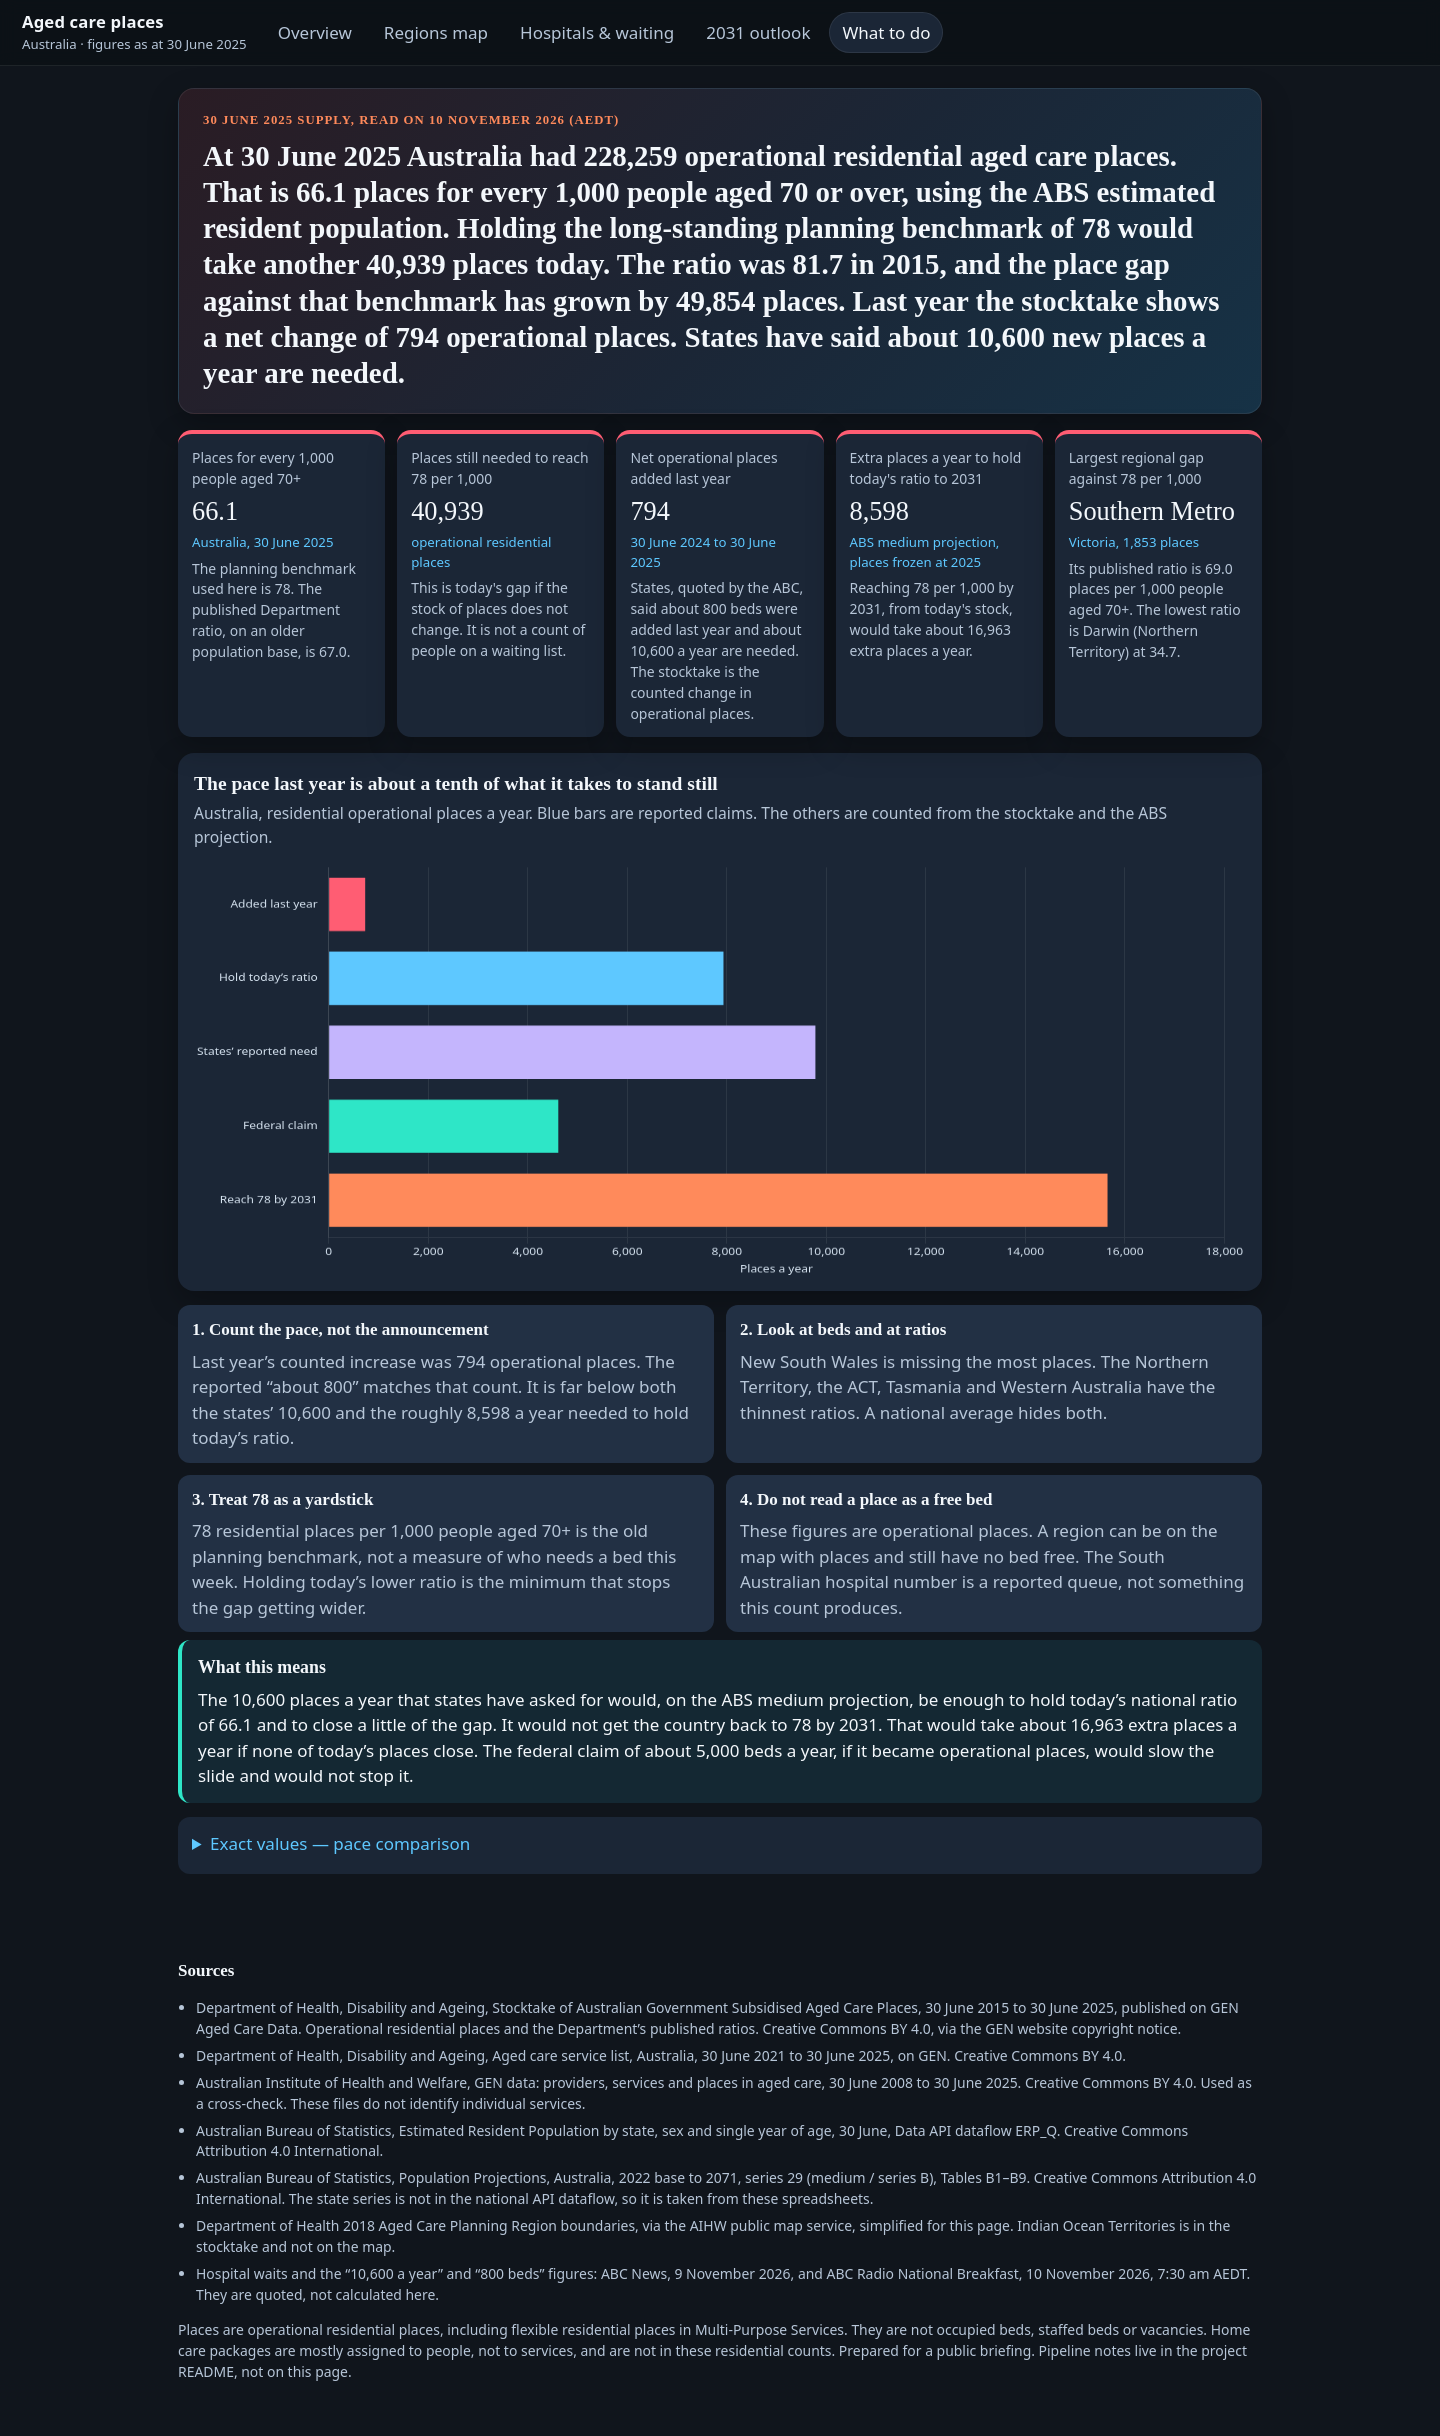
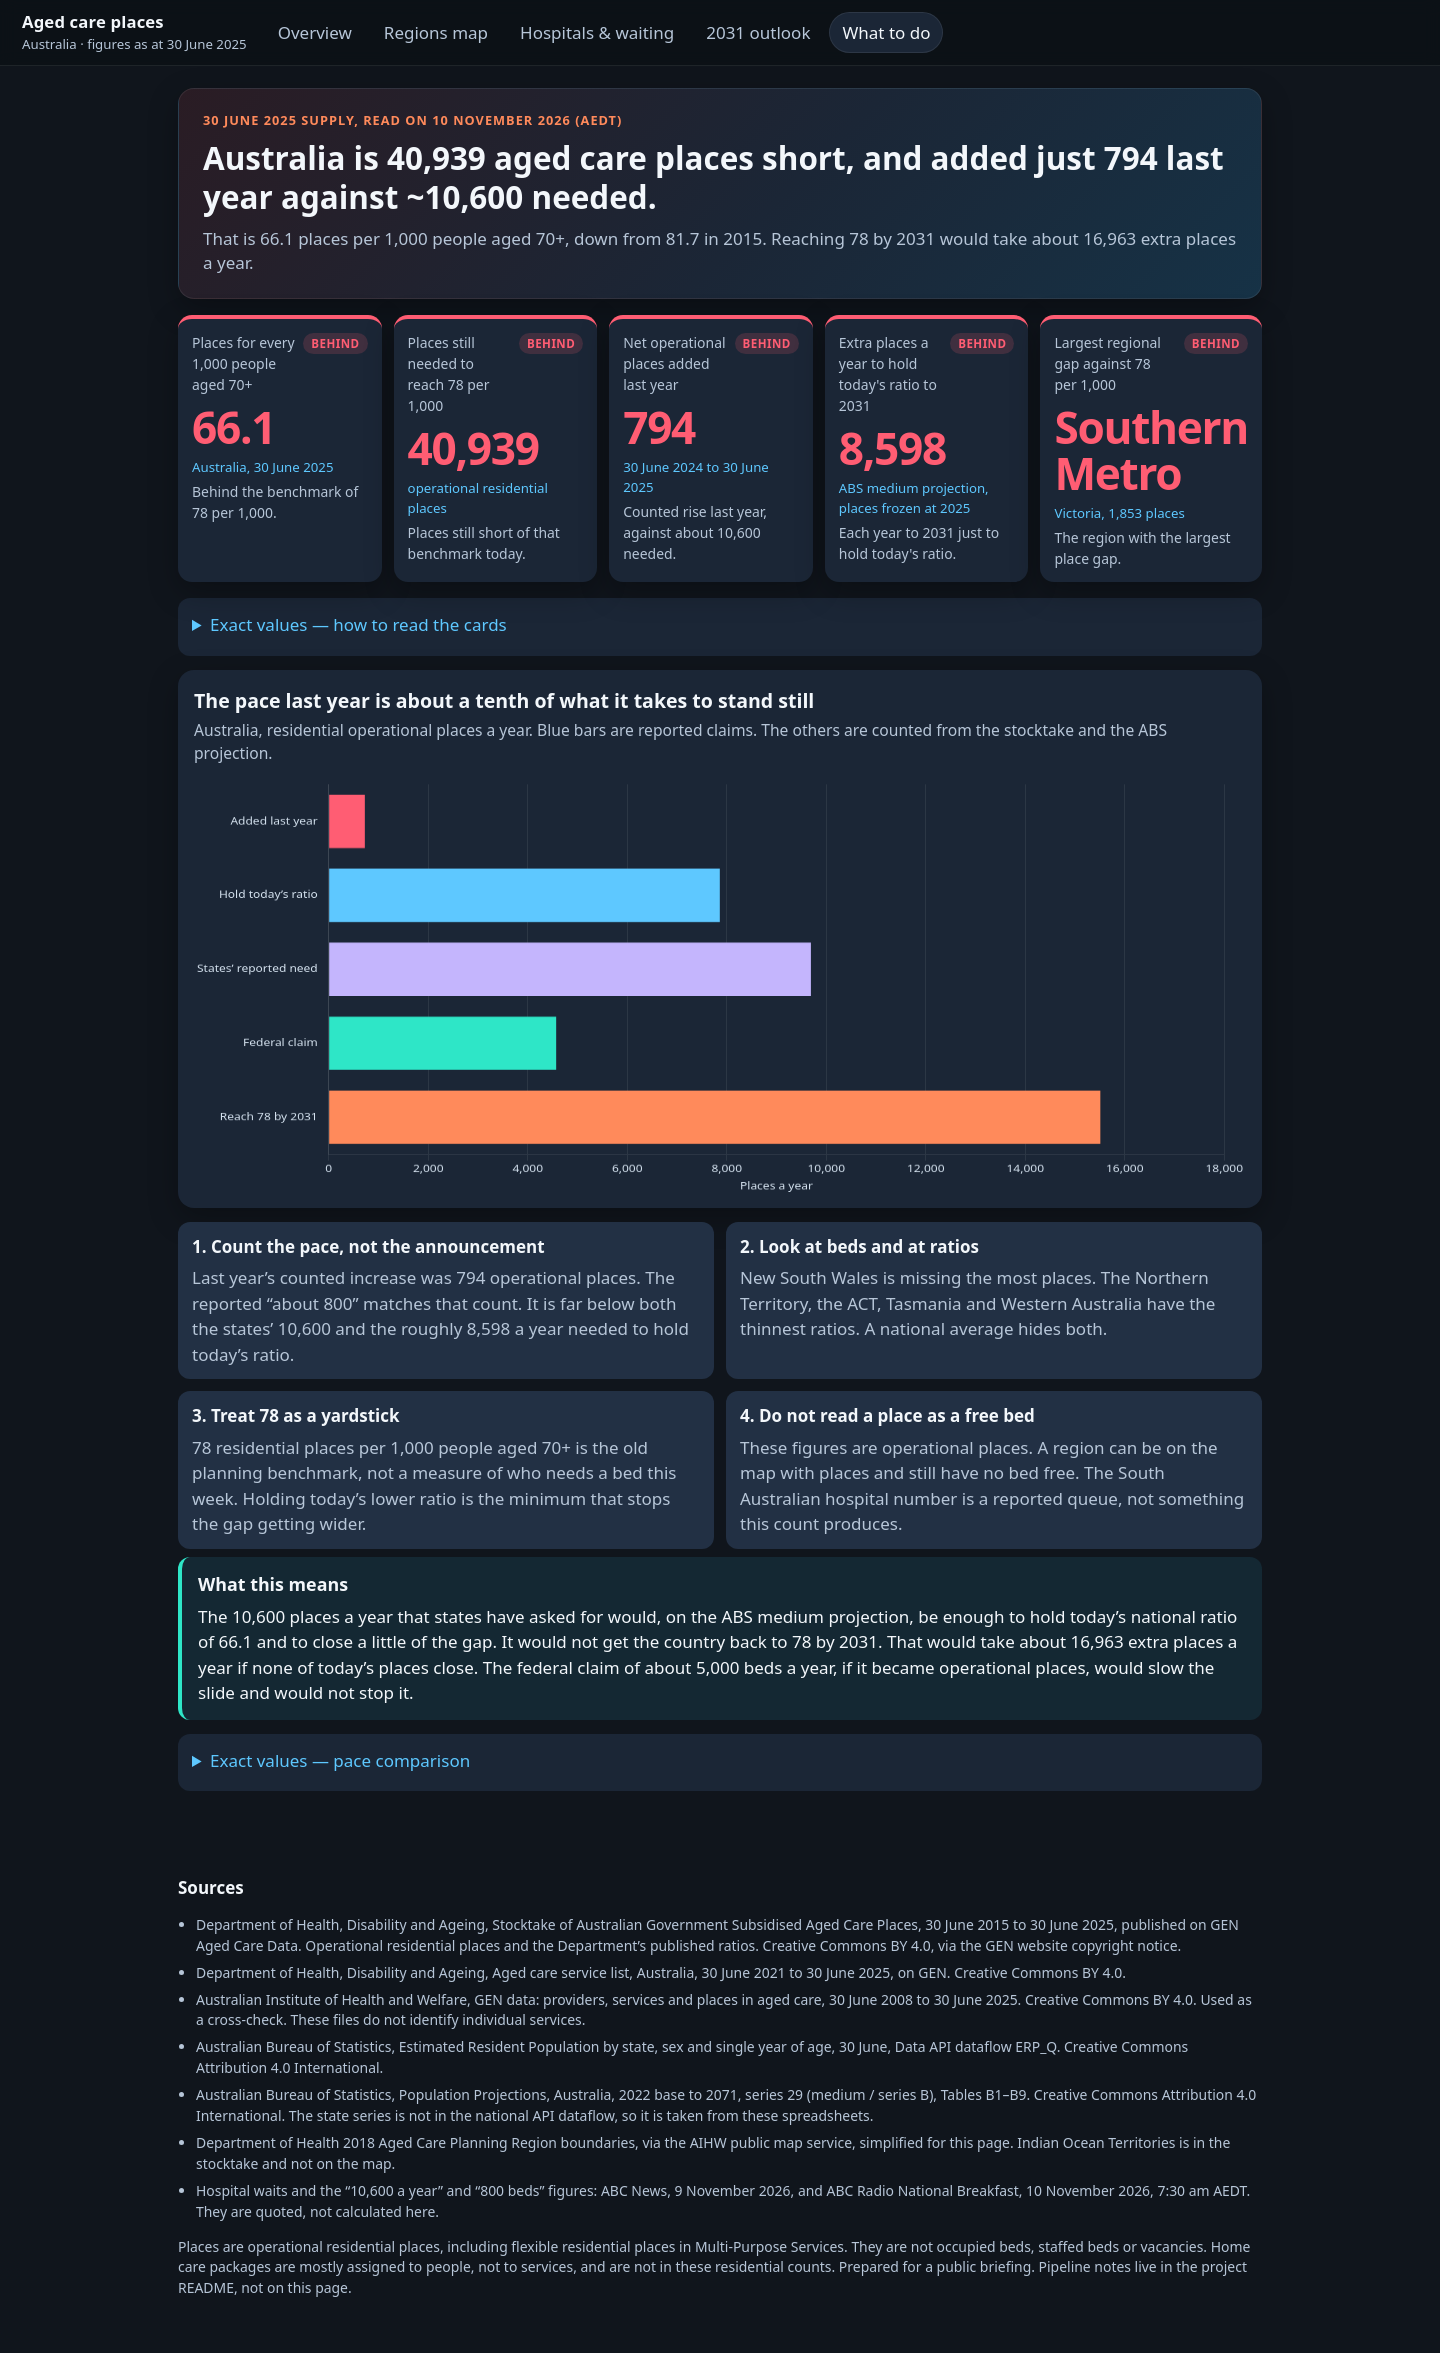
Shorten the dashboard headline and enlarge the status numbers.
The banner is one sentence plus a two-sentence note. KPI values use a bold sans-serif, a status colour, and a short pill, with the longer explanations in the exact-values disclosure.

Changed region(s): [[0.125, 0.031, 0.875, 0.7756], [0.125, 0.8066, 0.875, 0.9928], [0.0312, 0.0, 0.125, 0.031]]

diff --git a/dashboard/styles.css b/dashboard/styles.css
@@ -20,11 +20,14 @@
 * { box-sizing: border-box; }
 html, body { margin: 0; background: var(--bg); color: var(--ink); }
 body {
-  font-family: "Segoe UI", "Helvetica Neue", Arial, sans-serif;
+  font-family: system-ui, -apple-system, "Segoe UI", "Helvetica Neue", Arial, sans-serif;
   line-height: 1.5;
   min-height: 100vh;
 }
-h1, h2, h3, .banner p { font-family: Georgia, "Palatino Linotype", Palatino, serif; font-weight: 600; }
+h1, h2, h3, .banner p, .quote {
+  font-family: system-ui, -apple-system, "Segoe UI", "Helvetica Neue", Arial, sans-serif;
+  font-weight: 650;
+}
 a { color: var(--blue); }
 button, input, select { font: inherit; }
 
@@ -69,7 +72,15 @@ main { max-width: 1120px; margin: 0 auto; padding: 22px 18px 48px; }
   margin-bottom: 16px;
 }
 .banner .kicker { color: var(--coral); letter-spacing: 0.08em; text-transform: uppercase; font-size: 0.75rem; margin: 0 0 8px; }
-.banner h1 { font-size: 1.7rem; line-height: 1.25; margin: 0; }
+.banner h1 { font-size: 1.85rem; line-height: 1.25; margin: 0; font-weight: 700; }
+.banner .subline {
+  margin: 10px 0 0;
+  max-width: 68rem;
+  color: var(--muted);
+  font-size: 1rem;
+  font-weight: 450;
+  line-height: 1.45;
+}
 
 .kpis { display: grid; grid-template-columns: repeat(5, 1fr); gap: 12px; margin-bottom: 16px; }
 .kpi {
@@ -83,9 +94,32 @@ main { max-width: 1120px; margin: 0 auto; padding: 22px 18px 48px; }
 .kpi.red { border-top-color: var(--red); }
 .kpi.amber { border-top-color: var(--amber); }
 .kpi.green { border-top-color: var(--green); }
-.kpi .label { color: var(--muted); font-size: 0.82rem; margin: 0 0 8px; }
-.kpi .value { font-size: 1.55rem; line-height: 1.1; margin: 0; font-family: Georgia, serif; }
-.kpi .unit { color: var(--blue); font-size: 0.78rem; margin: 6px 0; }
+.kpi-top { display: flex; align-items: flex-start; justify-content: space-between; gap: 8px; margin-bottom: 8px; }
+.kpi .label { color: var(--muted); font-size: 0.82rem; margin: 0; }
+.kpi .value {
+  font-family: system-ui, -apple-system, "Segoe UI", "Helvetica Neue", Arial, sans-serif;
+  font-size: 2.6rem;
+  font-weight: 700;
+  line-height: 1.05;
+  letter-spacing: -0.03em;
+  margin: 0;
+}
+.kpi.red .value { color: var(--red); }
+.kpi.amber .value { color: var(--amber); }
+.kpi.green .value { color: var(--green); }
+.pill {
+  flex: 0 0 auto;
+  border-radius: 999px;
+  padding: 2px 8px;
+  font-size: 0.68rem;
+  font-weight: 700;
+  letter-spacing: 0.04em;
+  text-transform: uppercase;
+}
+.kpi.red .pill { color: var(--red); background: rgba(255, 93, 115, 0.16); }
+.kpi.amber .pill { color: var(--amber); background: rgba(255, 176, 32, 0.16); }
+.kpi.green .pill { color: var(--green); background: rgba(61, 206, 138, 0.16); }
+.kpi .unit { color: var(--blue); font-size: 0.78rem; margin: 8px 0 4px; }
 .kpi .take { color: var(--muted); font-size: 0.82rem; margin: 0; }
 
 .card {
@@ -148,12 +182,12 @@ th:first-child, td:first-child, th:nth-child(2), td:nth-child(2) { text-align: l
 th { color: var(--muted); font-weight: 600; }
 
 .quote {
-  font-family: Georgia, serif;
-  font-size: 1.65rem;
-  line-height: 1.25;
+  font-size: 1.55rem;
+  font-weight: 650;
+  line-height: 1.3;
   margin: 0;
 }
-.quote span { display: block; margin-top: 8px; color: var(--muted); font-family: "Segoe UI", sans-serif; font-size: 0.95rem; }
+.quote span { display: block; margin-top: 8px; color: var(--muted); font-size: 0.95rem; font-weight: 450; }
 .steps { display: grid; grid-template-columns: 1fr 1fr; gap: 12px; }
 .step { background: var(--card-2); border-radius: 12px; padding: 12px 14px; }
 .step h3 { margin: 0 0 6px; font-size: 1rem; }
@@ -177,6 +211,7 @@ footer.sources li { margin-bottom: 6px; }
 }
 @media (max-width: 640px) {
   .kpis { grid-template-columns: 1fr; }
-  .banner h1 { font-size: 1.35rem; }
+  .banner h1 { font-size: 1.4rem; }
+  .kpi .value { font-size: 2.4rem; }
   canvas { height: 260px !important; }
 }

diff --git a/dashboard/app.js b/dashboard/app.js
@@ -68,15 +68,47 @@
     return `<table><thead>${head}</thead><tbody>${body}</tbody></table>`;
   }
 
+  const STATUS_PILL = { red: "Behind", amber: "Watch", green: "On track" };
+  const SHORT_TAKE = [
+    "Behind the benchmark of 78 per 1,000.",
+    "Places still short of that benchmark today.",
+    "Counted rise last year, against about 10,600 needed.",
+    "Each year to 2031 just to hold today's ratio.",
+    "The region with the largest place gap.",
+  ];
+
+  function fillBanner() {
+    const latest = latestNational();
+    const earlier = MARTS.national_series.find((row) => row.year === 2015);
+    const outlook = ausOutlook();
+    document.getElementById("banner").textContent =
+      `Australia is ${n(latest.shortfall_vs_78)} aged care places short, and added just ${n(latest.net_operational_places)} last year against ~10,600 needed.`;
+    document.getElementById("banner-sub").textContent =
+      `That is ${n(latest.per_1000_70, 1)} places per 1,000 people aged 70+, down from ${n(earlier.per_1000_70, 1)} in 2015. ` +
+      `Reaching 78 by 2031 would take about ${n(outlook.annual_extra_to_reach_78)} extra places a year.`;
+  }
+
   function fillKpis() {
     const host = document.getElementById("kpis");
-    host.innerHTML = MARTS.kpis.map((kpi) => `
+    host.innerHTML = MARTS.kpis.map((kpi, index) => `
       <article class="kpi ${kpi.status}">
-        <p class="label">${kpi.label}</p>
+        <div class="kpi-top">
+          <p class="label">${kpi.label}</p>
+          <span class="pill">${STATUS_PILL[kpi.status] || "Watch"}</span>
+        </div>
         <p class="value">${kpi.value}</p>
         <p class="unit">${kpi.unit}</p>
-        <p class="take">${kpi.takeaway}</p>
+        <p class="take">${SHORT_TAKE[index] || kpi.takeaway}</p>
       </article>`).join("");
+    document.getElementById("kpi-notes-body").innerHTML = table(
+      ["Card", "Value", "Status", "Detail"],
+      MARTS.kpis.map((kpi) => [
+        kpi.label,
+        kpi.value,
+        STATUS_PILL[kpi.status] || "Watch",
+        kpi.takeaway,
+      ])
+    );
   }
 
   function renderOverview() {
@@ -521,7 +553,7 @@
     ]);
     MARTS = marts;
     GEO = geo;
-    document.getElementById("banner").textContent = marts.headline;
+    fillBanner();
     fillKpis();
     document.querySelectorAll("[data-tab]").forEach((button) => {
       button.addEventListener("click", () => show(button.dataset.tab));

diff --git a/dashboard/index.html b/dashboard/index.html
@@ -25,8 +25,13 @@
     <section class="banner">
       <p class="kicker">30 June 2025 supply, read on 10 November 2026 (AEDT)</p>
       <h1 id="banner">Loading the latest figures…</h1>
+      <p id="banner-sub" class="subline"></p>
     </section>
     <section class="kpis" id="kpis" aria-label="Key figures"></section>
+    <details class="exact" id="kpi-notes">
+      <summary>Exact values — how to read the cards</summary>
+      <div id="kpi-notes-body"></div>
+    </details>
 
     <section data-page="overview">
       <article class="card">
